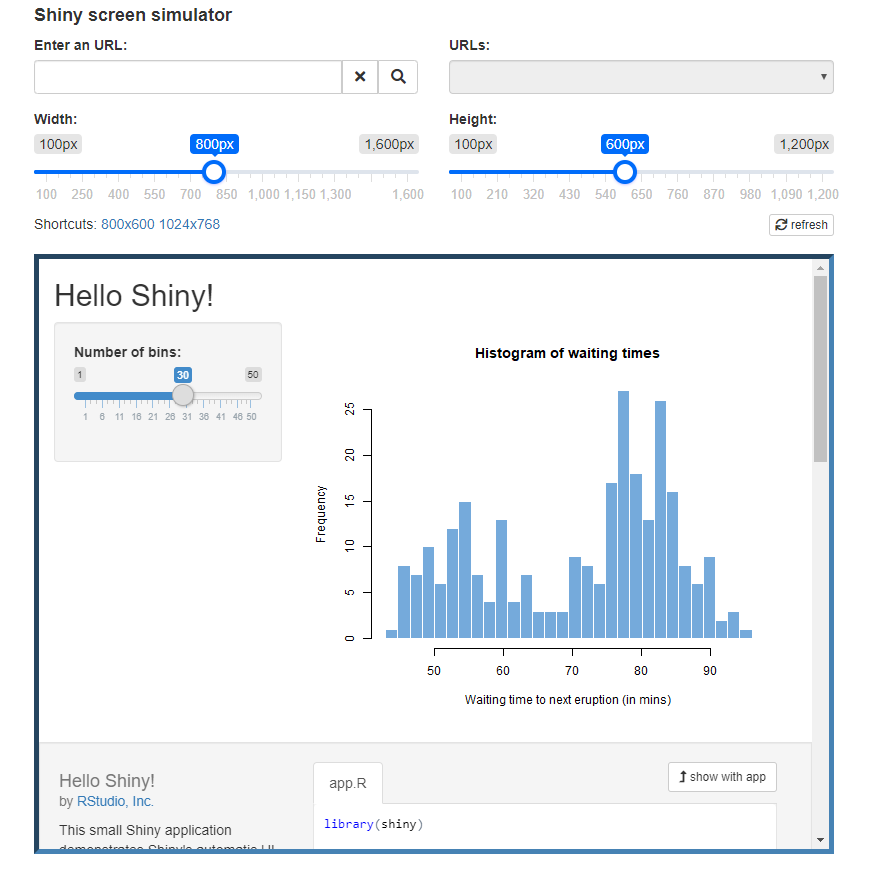
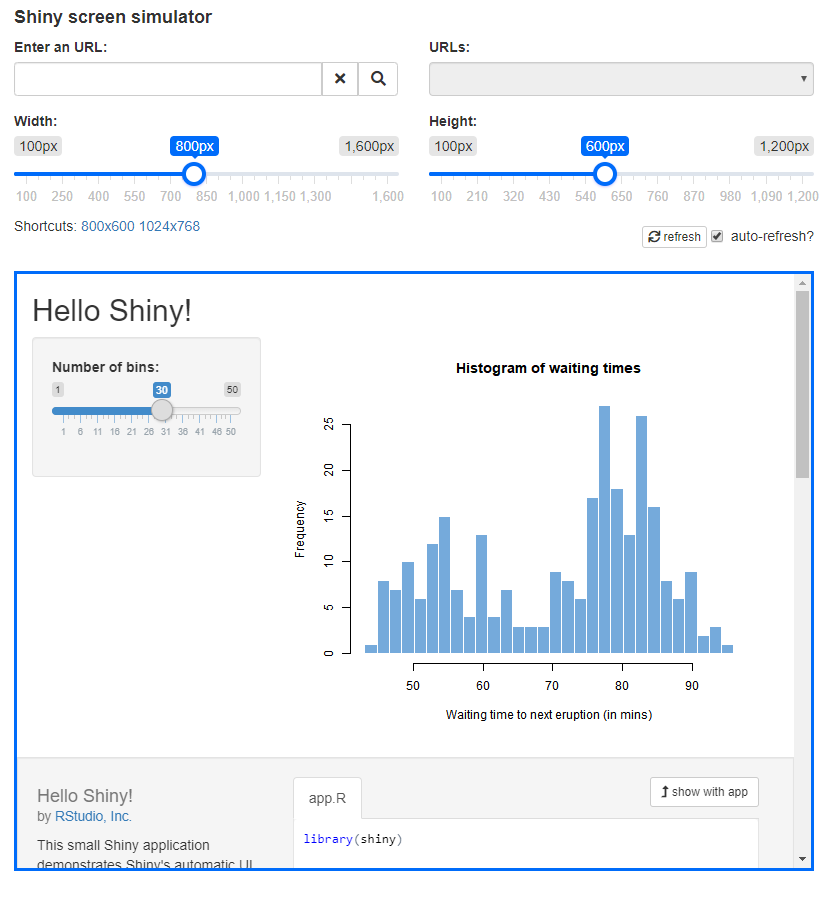
update style + online demo

diff --git a/docs/index.html b/docs/index.html
@@ -15,7 +15,7 @@
 <script src="index_files/iframe-resizer-3.6.1/iframeResizer.min.js"></script>
 <link href="index_files/ionrangeslider-2.3.0/css/ion.rangeSlider.min.css" rel="stylesheet" />
 <script src="index_files/ionrangeslider-2.3.0/js/ion.rangeSlider.min.js"></script>
-<script src="index_files/resizer-binding-0.0.1.900/resizer.js"></script>
+<script src="index_files/resizer-binding-0.0.2.900/resizer.js"></script>
   <title>resizer</title>
   <style>.btn-addon{font-size:14.5px;margin:0 0 0 0 !important;display: inline-block !important;}</style>
 </head>
@@ -70,19 +70,29 @@
         <span>Shortcuts:</span>
         <a id="width800_height600" href="#" class="action-button">800x600</a>
         <a id="width1024_height768" href="#" class="action-button">1024x768</a>
-        <button class="btn btn-default action-button btn-xs pull-right" id="refresh" type="button">
-          <i class="fa fa-refresh"></i>
-          refresh
-        </button>
+        <div style="display: inline-block" class="pull-right">
+          <button class="btn btn-default action-button btn-xs" id="refresh" type="button">
+            <i class="fa fa-refresh"></i>
+            refresh
+          </button>
+          <div class="form-group shiny-input-container" style="display: inline-block;">
+            <div class="checkbox">
+              <label>
+                <input id="autorefresh" type="checkbox" checked="checked"/>
+                <span>auto-refresh?</span>
+              </label>
+            </div>
+          </div>
+        </div>
       </div>
       <br/>
       <div class="container" style="max-width: 800px; margin: auto; padding: 0;">
-        <iframe id="htmlwidget-e12d129fa66b358357a5" class="resizer html-widget" style="border: 5px inset steelblue;" src="http://127.0.0.1"></iframe>
+        <iframe id="htmlwidget-594680db832684385fe9" class="resizer html-widget" style="border: 3px solid #006cfa;" src="http://127.0.0.1"></iframe>
       </div>
     </div>
   </div>
 </div>
-<script type="application/json" data-for="htmlwidget-e12d129fa66b358357a5">{"x":{"url_app":null,"urls":{"http://shinyapps.dreamrs.fr/":"http://shinyapps.dreamrs.fr/"},"width":800,"height":600,"controls":true},"evals":[],"jsHooks":[]}</script>
-<script type="application/htmlwidget-sizing" data-for="htmlwidget-e12d129fa66b358357a5">{"viewer":{"width":"100%","height":"100%","padding":0,"fill":true},"browser":{"width":"100%","height":"100%","padding":0,"fill":false}}</script>
+<script type="application/json" data-for="htmlwidget-594680db832684385fe9">{"x":{"url_app":null,"urls":{"https://dreamrs.shinyapps.io/memory-hex/":"https://dreamrs.shinyapps.io/memory-hex/"},"width":800,"height":600,"controls":true},"evals":[],"jsHooks":[]}</script>
+<script type="application/htmlwidget-sizing" data-for="htmlwidget-594680db832684385fe9">{"viewer":{"width":"100%","height":"100%","padding":0,"fill":true},"browser":{"width":"100%","height":"100%","padding":0,"fill":false}}</script>
 </body>
 </html>

diff --git a/docs/index_files/resizer-binding-0.0.2.900/resizer.js b/docs/index_files/resizer-binding-0.0.2.900/resizer.js
@@ -46,21 +46,31 @@ HTMLWidgets.widget({
           $("#iframe_width").ionRangeSlider({
             skin: "round",
             onChange: function(data) {
-              //$('#' + el.id).width(data.from + 10);
               $(".container").width(data.from + 0);
               $(".container").css("maxWidth", data.from + 0 + "px");
               iframe.resize();
-              //$('#' + el.id).attr('src', iframeSrc);
+            },
+            onFinish: function (data) {
+              var autoR = document.getElementById("autorefresh").checked;
+             // fired on pointer release
+             if (autoR) {
+               $("#refresh").click();
+             }
             }
           });
           $("#iframe_height").ionRangeSlider({
             skin: "round",
             onChange: function(data) {
-              //$('#' + el.id).width(data.from + 10);
               $(".container").height(data.from + 0);
               $(".container").css("maxHeight", data.from + 0 + "px");
               iframe.resize();
-              //$('#' + el.id).attr('src', iframeSrc);
+            },
+            onFinish: function (data) {
+              var autoR = document.getElementById("autorefresh").checked;
+             // fired on pointer release
+             if (autoR) {
+               $("#refresh").click();
+             }
             }
           });
 
@@ -98,7 +108,9 @@ HTMLWidgets.widget({
         // select shiny app url if exist
         if (x.url_app !== null) {
           iframeSrc = x.url_app;
-          $("#" + el.id).attr("src", iframeSrc);
+          setTimeout(function() {
+            $("#" + el.id).attr("src", iframeSrc);
+          }, 300);
           $(".container").width(x.width);
           $(".container").css("maxWidth", x.width + "px");
           $(".container").height(x.height);

diff --git a/inst/htmlwidgets/resizer_raw.js b/inst/htmlwidgets/resizer_raw.js
@@ -12,7 +12,9 @@ HTMLWidgets.widget({
 
         // select shiny app url if exist
         if (x.url_app !== null) {
-          $('#' + el.id).attr('src', x.url_app);
+          setTimeout(function() {
+            $('#' + el.id).attr('src', x.url_app);
+          }, 400);
           $('.container').width(x.width);
           $('.container').css('maxWidth', x.width + "px");
           $('.container').height(x.height);

diff --git a/README.md b/README.md
@@ -13,6 +13,8 @@
 This is a POC to discuss with [@DivadNojnarg](https://github.com/DivadNojnarg), the goal is to see how we can merge this with [`shinyMobile::preview_mobile()`](https://rinterface.github.io/shinyMobile/reference/preview_mobile.html).
 
 
+Online demo : https://dreamrs.github.io/resizer/
+
 
 ## Installation
 
